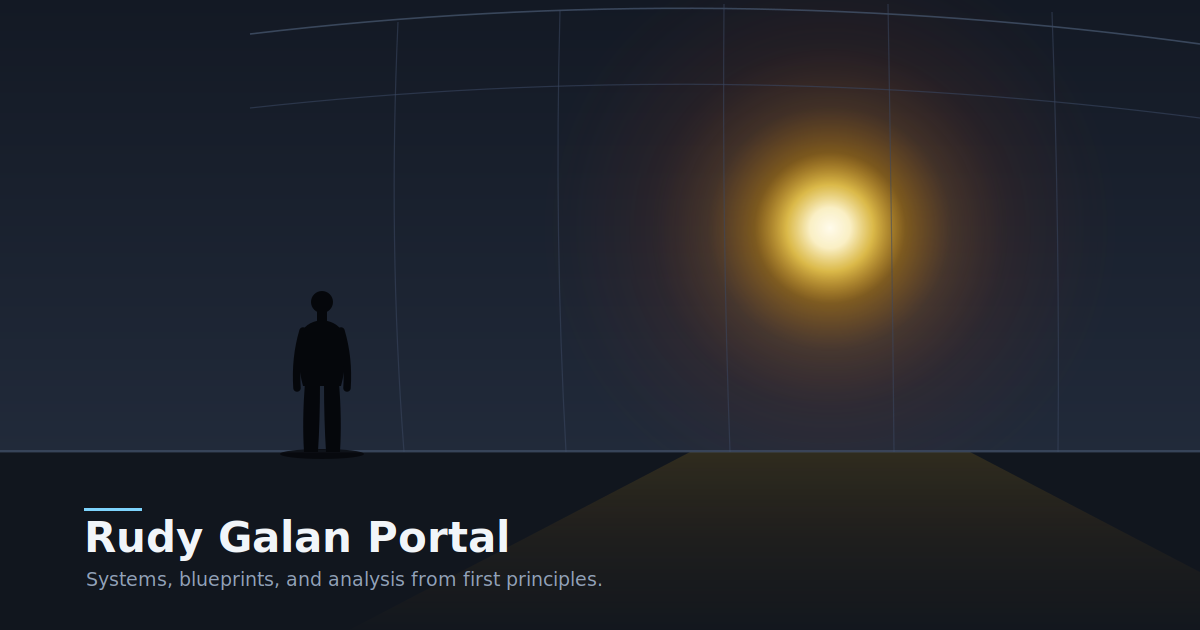
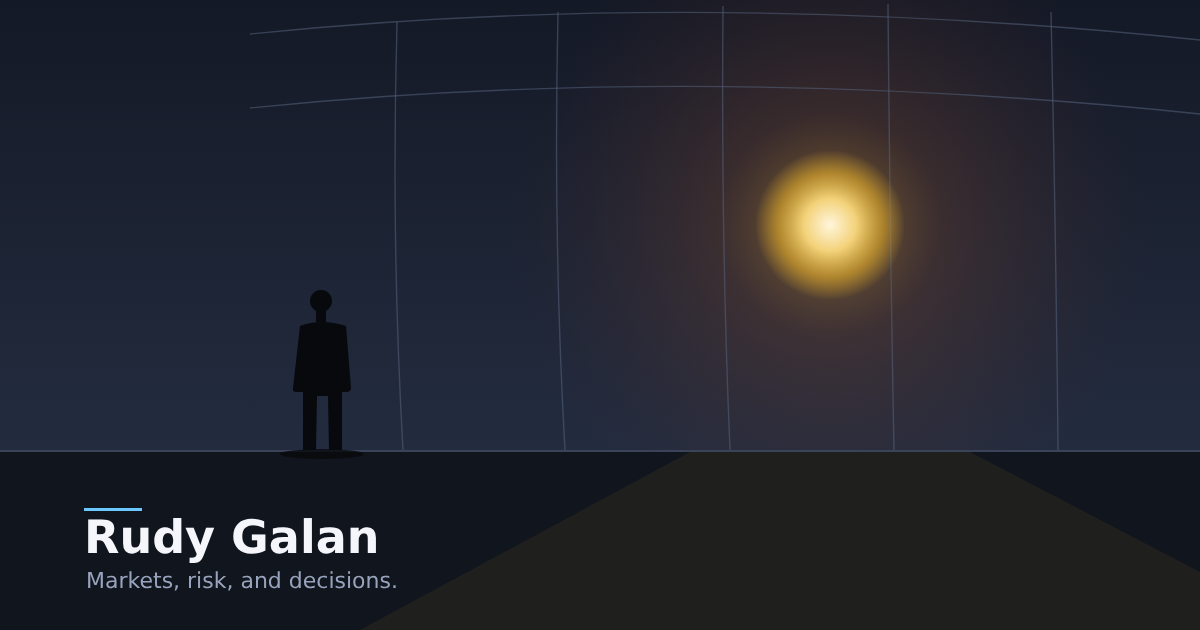
Add beehiiv form + attribution, remove workout-partner, fix lint, polish redesign
- Base Rate signup now uses the beehiiv embed (form ID in BASE_RATE.formId); no-JS fallback link
- beehiiv attribution.js loaded once per visit in the layout head
- Delete /workout-partner (Tally form page); old URL redirects to home
- Fix unused catch variables in partners.astro and txhouse.astro (lint now clean)
- Writing nav item stays highlighted on posts, tags, and archive pages
- Redirect retired /posts and /library index pages to /writing
- Sitewide "educational content only" footer line linking to the full disclosure
- Update link-in-bio page and archive back-link to the new structure
- Privacy policy now covers newsletter signups and source tracking
- Regenerate og-portal.png (old one said "Rudy Galan Portal / first principles")

Claude-Session: https://claude.ai/code/session_01RnYeDHx8AtepBHUQ5sveNP

diff --git a/src/config.ts b/src/config.ts
@@ -66,13 +66,12 @@ export const navLinks = [
 ];
 
 // Base Rate newsletter (beehiiv).
-// To show an inline email form instead of a button, paste the src URL from
-// beehiiv > Settings > Subscribe forms > (your form) > Get embed code,
-// e.g. "https://subscribe-forms.beehiiv.com/xxxxxxxx-xxxx-..."
+// formId is the data-beehiiv-form value from the beehiiv embed code
+// (beehiiv > Grow > Subscribe forms > your form > Get embed code).
 export const BASE_RATE = {
   name: "Base Rate",
   url: "https://rudygalan.beehiiv.com",
   subscribeUrl: "https://rudygalan.beehiiv.com/subscribe",
-  embedSrc: "",
+  formId: "1372f0fc-9eea-41d4-b184-c7e355342850",
   cadence: "Every Sunday",
 };
